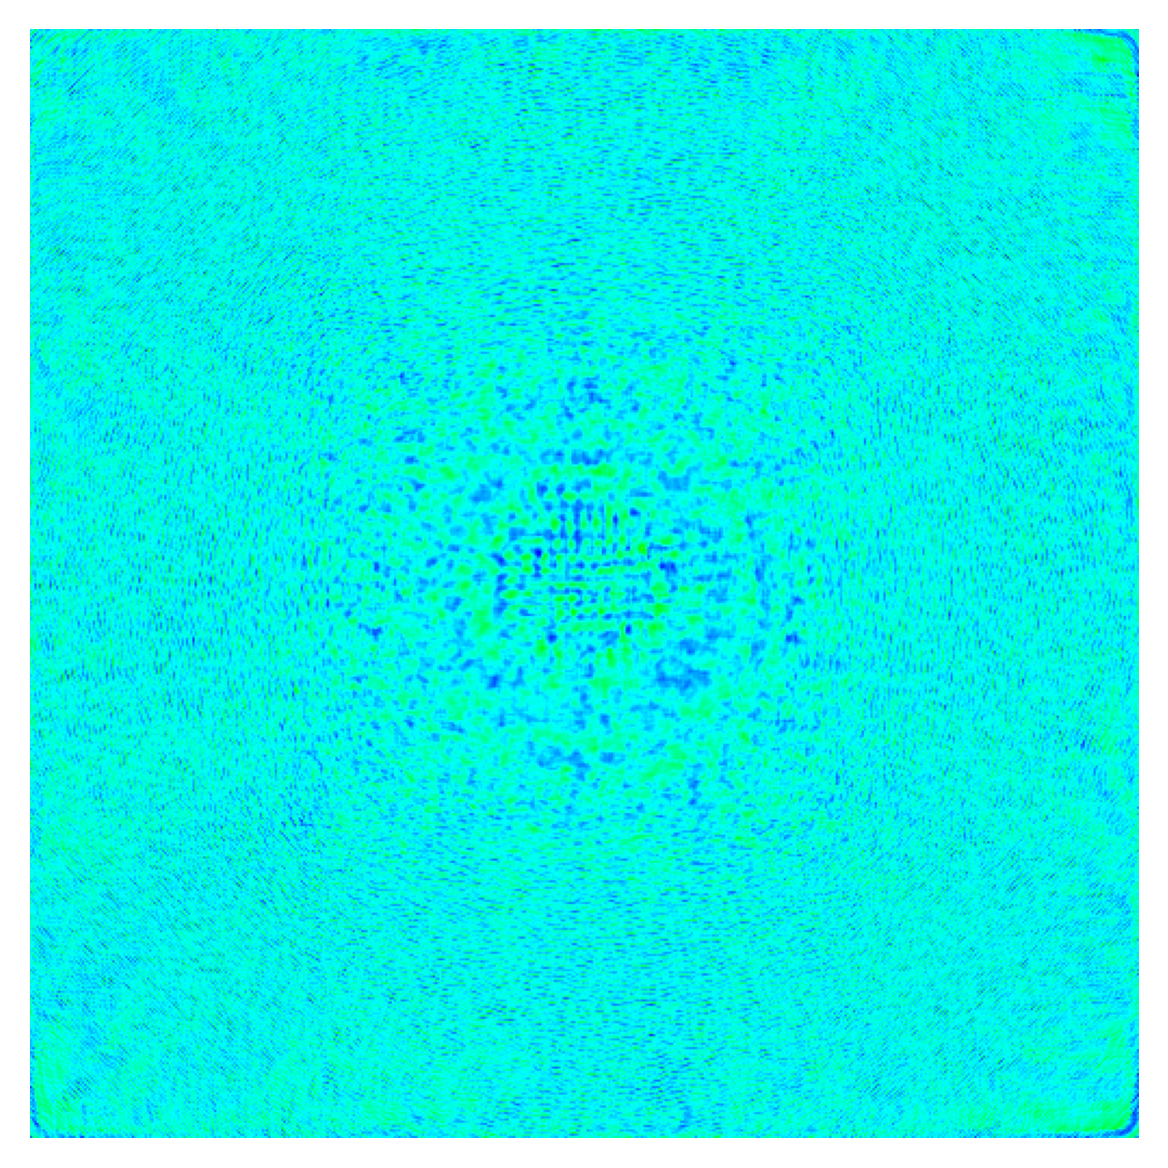
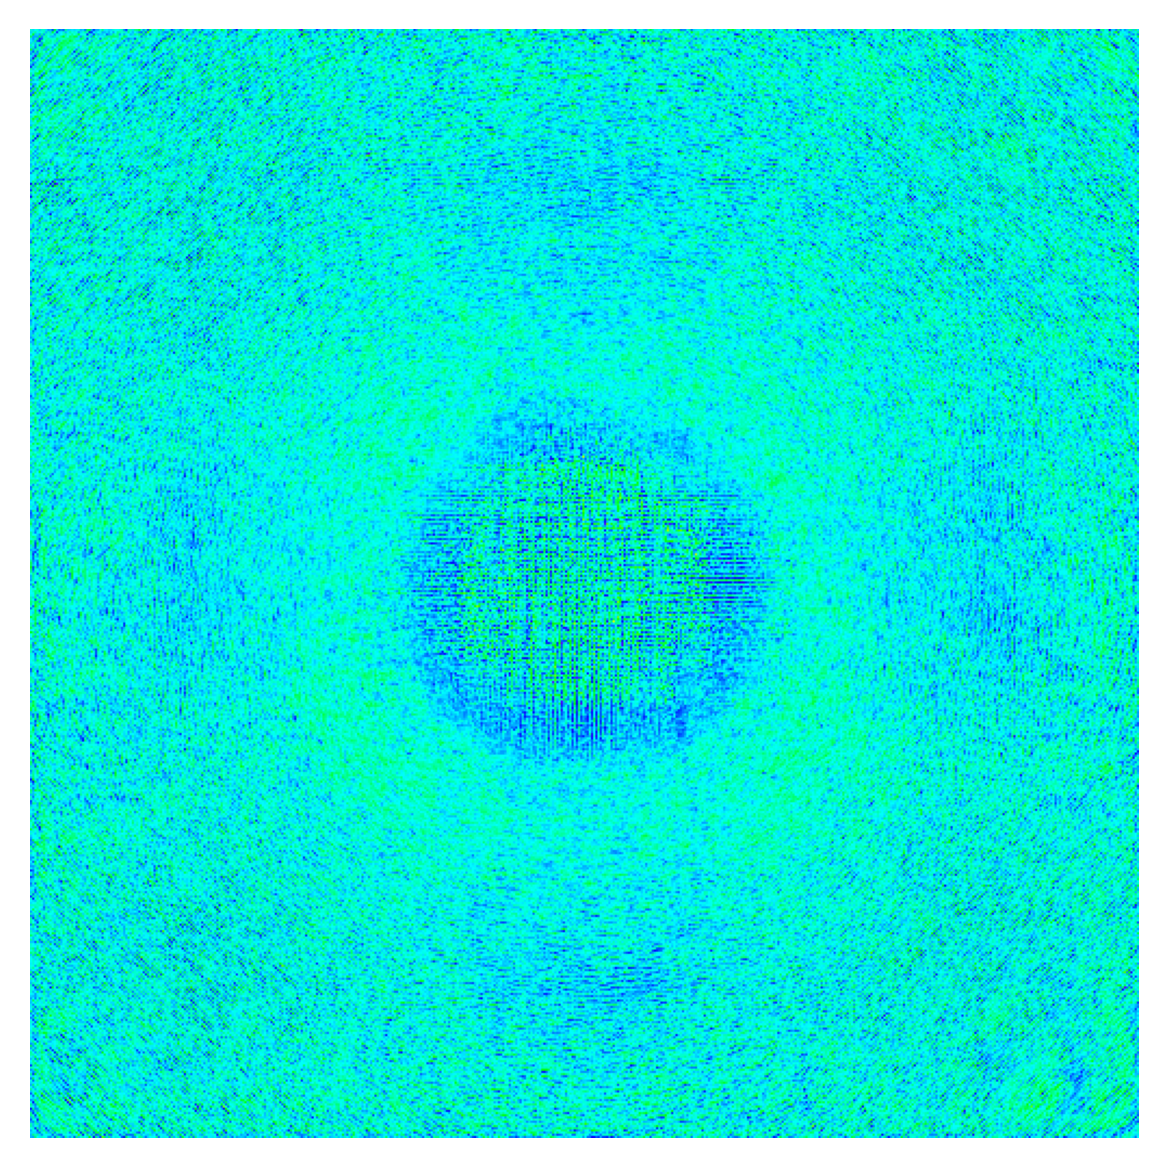
update

diff --git a/main.py b/main.py
@@ -36,7 +36,7 @@ parser.add_argument('--wvl',            default = 635,        type = float, help
 parser.add_argument('--ps_slm',         default = 3.74,       type = float, help = 'Pixel size of the SLM in [um]')
 parser.add_argument('--modulation',     default = 0,          type = float, help = 'Modulation in [λ/D]')
 parser.add_argument('--alpha',          default = 3,          type = float, help = 'Angle of the PWFS in [degrees]')
-parser.add_argument('--nHead',          default = 0,          type = int,   help = 'Number of faces of the pyramid')
+parser.add_argument('--nHead',          default = 4,          type = int,   help = 'Number of faces of the pyramid')
 parser.add_argument('--f1',             default = 100,        type = float, help = 'Focal length of the first lens in [mm]')
 parser.add_argument('--f2',             default = 100,        type = float, help = 'Focal length of the second lens in [mm]')
 parser.add_argument('--nDE',            default = 3,          type = int,   help = 'Number of diffractive elements')
@@ -142,8 +142,8 @@ pars_log = {'D':params.D, 'resol_Data':params.nPx, 'resol_NN':params.resol_nn, '
 
 Log(pars_log, routine_lists, path = Log_Path, name = f'Log')
 
-print(f'TRAINING: device={params.device} | precision={params.precision_name} | expName={params.expName}')
-# time.sleep(5)
+print(f'TRAINING: device={params.device} | precision={params.precision_name} | expName={params.expName}\n')
+time.sleep(5)
 
 for i,ro in enumerate(routine_lists, start=0): # Rutines [{}] for each routine
     path_routine = Log_Path + f'/routine_{i}'
@@ -217,7 +217,8 @@ for i,ro in enumerate(routine_lists, start=0): # Rutines [{}] for each routine
                 epoch_check = 0
                 print('Importing pretrained model')
             else:
-                print('Training cero-model')
+                print('Training cero-model\n')
+                time.sleep(1)
                 if j == 0: # first training
                     epoch_check = 0
                     best_loss_v = float('inf')
@@ -225,7 +226,8 @@ for i,ro in enumerate(routine_lists, start=0): # Rutines [{}] for each routine
 
                     model = FWFS(prs, device=prs.device)
 
-                    print(f'FIRST EXECUTION')
+                    print(f'FIRST EXECUTION\n')
+                    time.sleep(1)
                 else: # fine-tuning
                     finetuning_path = path_routine + f'/train_{j-1}/Checkpoint/checkpoint_best-v.pth'
 
@@ -321,15 +323,17 @@ for i,ro in enumerate(routine_lists, start=0): # Rutines [{}] for each routine
                             plt.savefig(path_train + f'/phis.png', dpi = 300, bbox_inches = 'tight')
                             plt.close()
 
-                    if (e+1)%5 == 0:
+                    if (e+1)%10 == 0: ## 5 originalmente ##
                         lr = dlr*lr
-                        print('lr changed to: ' + ' '.join([format(value, '.3f') for value in lr]))
+                        print('lr changed to: ' + ' '.join([format(value, '.5f') for value in lr]) + '\n')
+                        time.sleep(0.5)
 
                     t1 = time.time()
                     tiempo[e] = t1 - t0
 
                     trainFigure(loss_t.detach(), loss_v.detach(), path_train)
-                    print(f'epoch finished = {e} | loss_t = {loss_t[e]:.3f} [nm] | loss_v = {loss_v[e]:.3f} [nm] / {best_loss_v:.3f} | time = {t1-t0:.3f}')
+                    print(f'epoch finished = {e} | loss_t = {loss_t[e]:.3f} [nm] | loss_v = {loss_v[e]:.3f} [nm] / {best_loss_v:.3f} | time = {t1-t0:.3f}\n')
+                    time.sleep(0.5)
 
             t1_total = time.time()
-            print(f'Total time: {t1_total - t0_total:.3f} | Epoch time: {tiempo[e]:.3f} | Best loss: {best_loss_v:.3f}')
+            print(f'Total time: {t1_total - t0_total:.3f} | Epoch time: {tiempo[e]:.3f} | Best loss: {best_loss_v:.3f}\n')

diff --git a/models/GcVit.py b/models/GcVit.py
@@ -264,7 +264,9 @@ class WindowAttention(nn.Module):
             torch.zeros((2 * window_size[0] - 1) * (2 * window_size[1] - 1), num_heads))
         coords_h = torch.arange(self.window_size[0])
         coords_w = torch.arange(self.window_size[1])
-        coords = torch.stack(torch.meshgrid([coords_h, coords_w]))
+        # coords = torch.stack(torch.meshgrid([coords_h, coords_w])) ### da advertencia ###
+        coords = torch.stack(torch.meshgrid(coords_h, coords_w, indexing='ij'), dim=0) ### modificado ###
+
         coords_flatten = torch.flatten(coords, 1)
         relative_coords = coords_flatten[:, :, None] - coords_flatten[:, None, :]
         relative_coords = relative_coords.permute(1, 2, 0).contiguous()
@@ -337,7 +339,8 @@ class WindowAttentionGlobal(nn.Module):
             torch.zeros((2 * window_size[0] - 1) * (2 * window_size[1] - 1), num_heads))
         coords_h = torch.arange(self.window_size[0])
         coords_w = torch.arange(self.window_size[1])
-        coords = torch.stack(torch.meshgrid([coords_h, coords_w]))
+        # coords = torch.stack(torch.meshgrid([coords_h, coords_w])) ### da advertencia ###
+        coords = torch.stack(torch.meshgrid(coords_h, coords_w, indexing='ij'), dim=0) ### modificado ###
         coords_flatten = torch.flatten(coords, 1)
         relative_coords = coords_flatten[:, :, None] - coords_flatten[:, None, :]
         relative_coords = relative_coords.permute(1, 2, 0).contiguous()

diff --git a/Functions/wfs.py b/Functions/wfs.py
@@ -37,7 +37,10 @@ class WFS(nn.Module):
         self.dz_before = params.dz_before
 
         self.jModes = params.jModes
-        self.modes  = torch.tensor(params.modes, dtype = self.precision.real, device = self.device) ### da advertencia ###
+
+        # self.modes  = torch.tensor(params.modes, dtype = self.precision.real, device = self.device) ### da advertencia ###
+        self.modes = (params.modes.detach().clone() if torch.is_tensor(params.modes) else torch.as_tensor(params.modes)).to(dtype = self.precision.real, device = self.device) ### modificado ###
+
         self.bModes = torch.zeros((len(self.jModes), 1, self.nPx, self.nPx), dtype = self.precision.real, device = self.device)
         for k in range(len(self.jModes)):           
             self.bModes[k, 0:1, : , :] = self.modes[:, k].reshape(self.nPx, self.nPx)

diff --git a/Functions/functions_wfs.py b/Functions/functions_wfs.py
@@ -41,7 +41,8 @@ def fourier_geometry(nPx, nhead, alpha, wvl, ps, rooftop, precision, device):
     if nhead >= 2:
         x = torch.linspace( -(nPx-1)//2,(nPx-1)//2,nPx , dtype=precision.real, device=device)*ps
         X,Y = torch.meshgrid(x,x, indexing='ij')
-        step = torch.tensor(2*np.pi/nhead, dtype=precision.real)
+        # step = torch.tensor(2*np.pi/nhead, dtype=precision.real) ### da advertencia ###
+        step = (2*np.pi/nhead).to(dtype= precision.real) ### modificado ###
         nTheta = torch.arange(0,2*np.pi+step,step, dtype=precision.real)
         k = 2*np.pi/wvl
         O_wrap = angle_wrap(X,Y)
